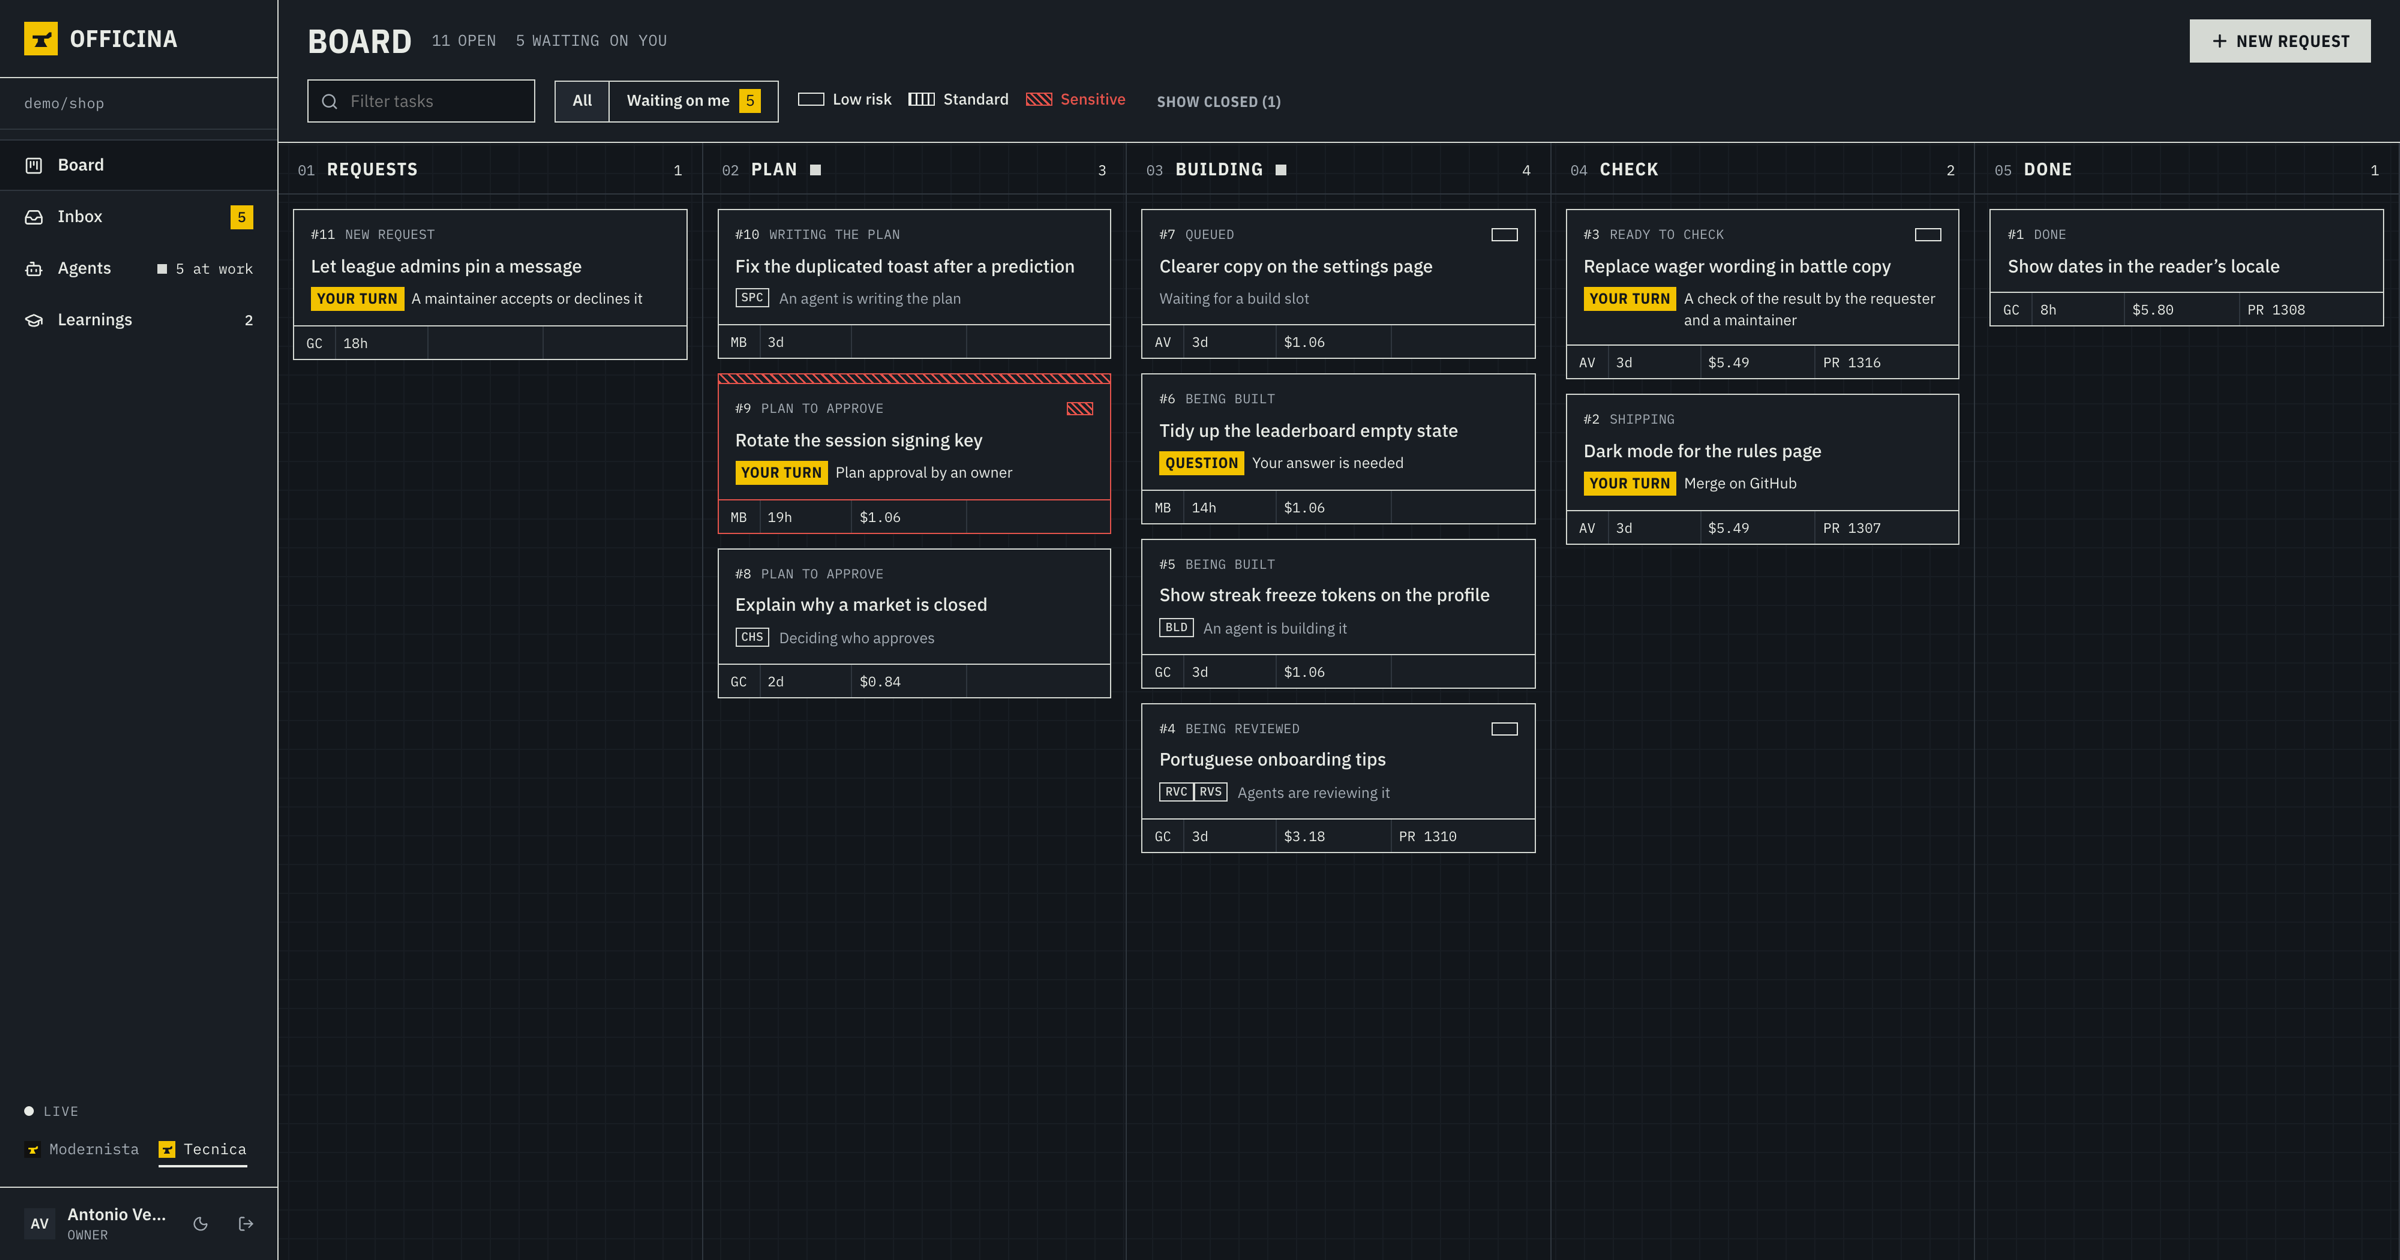
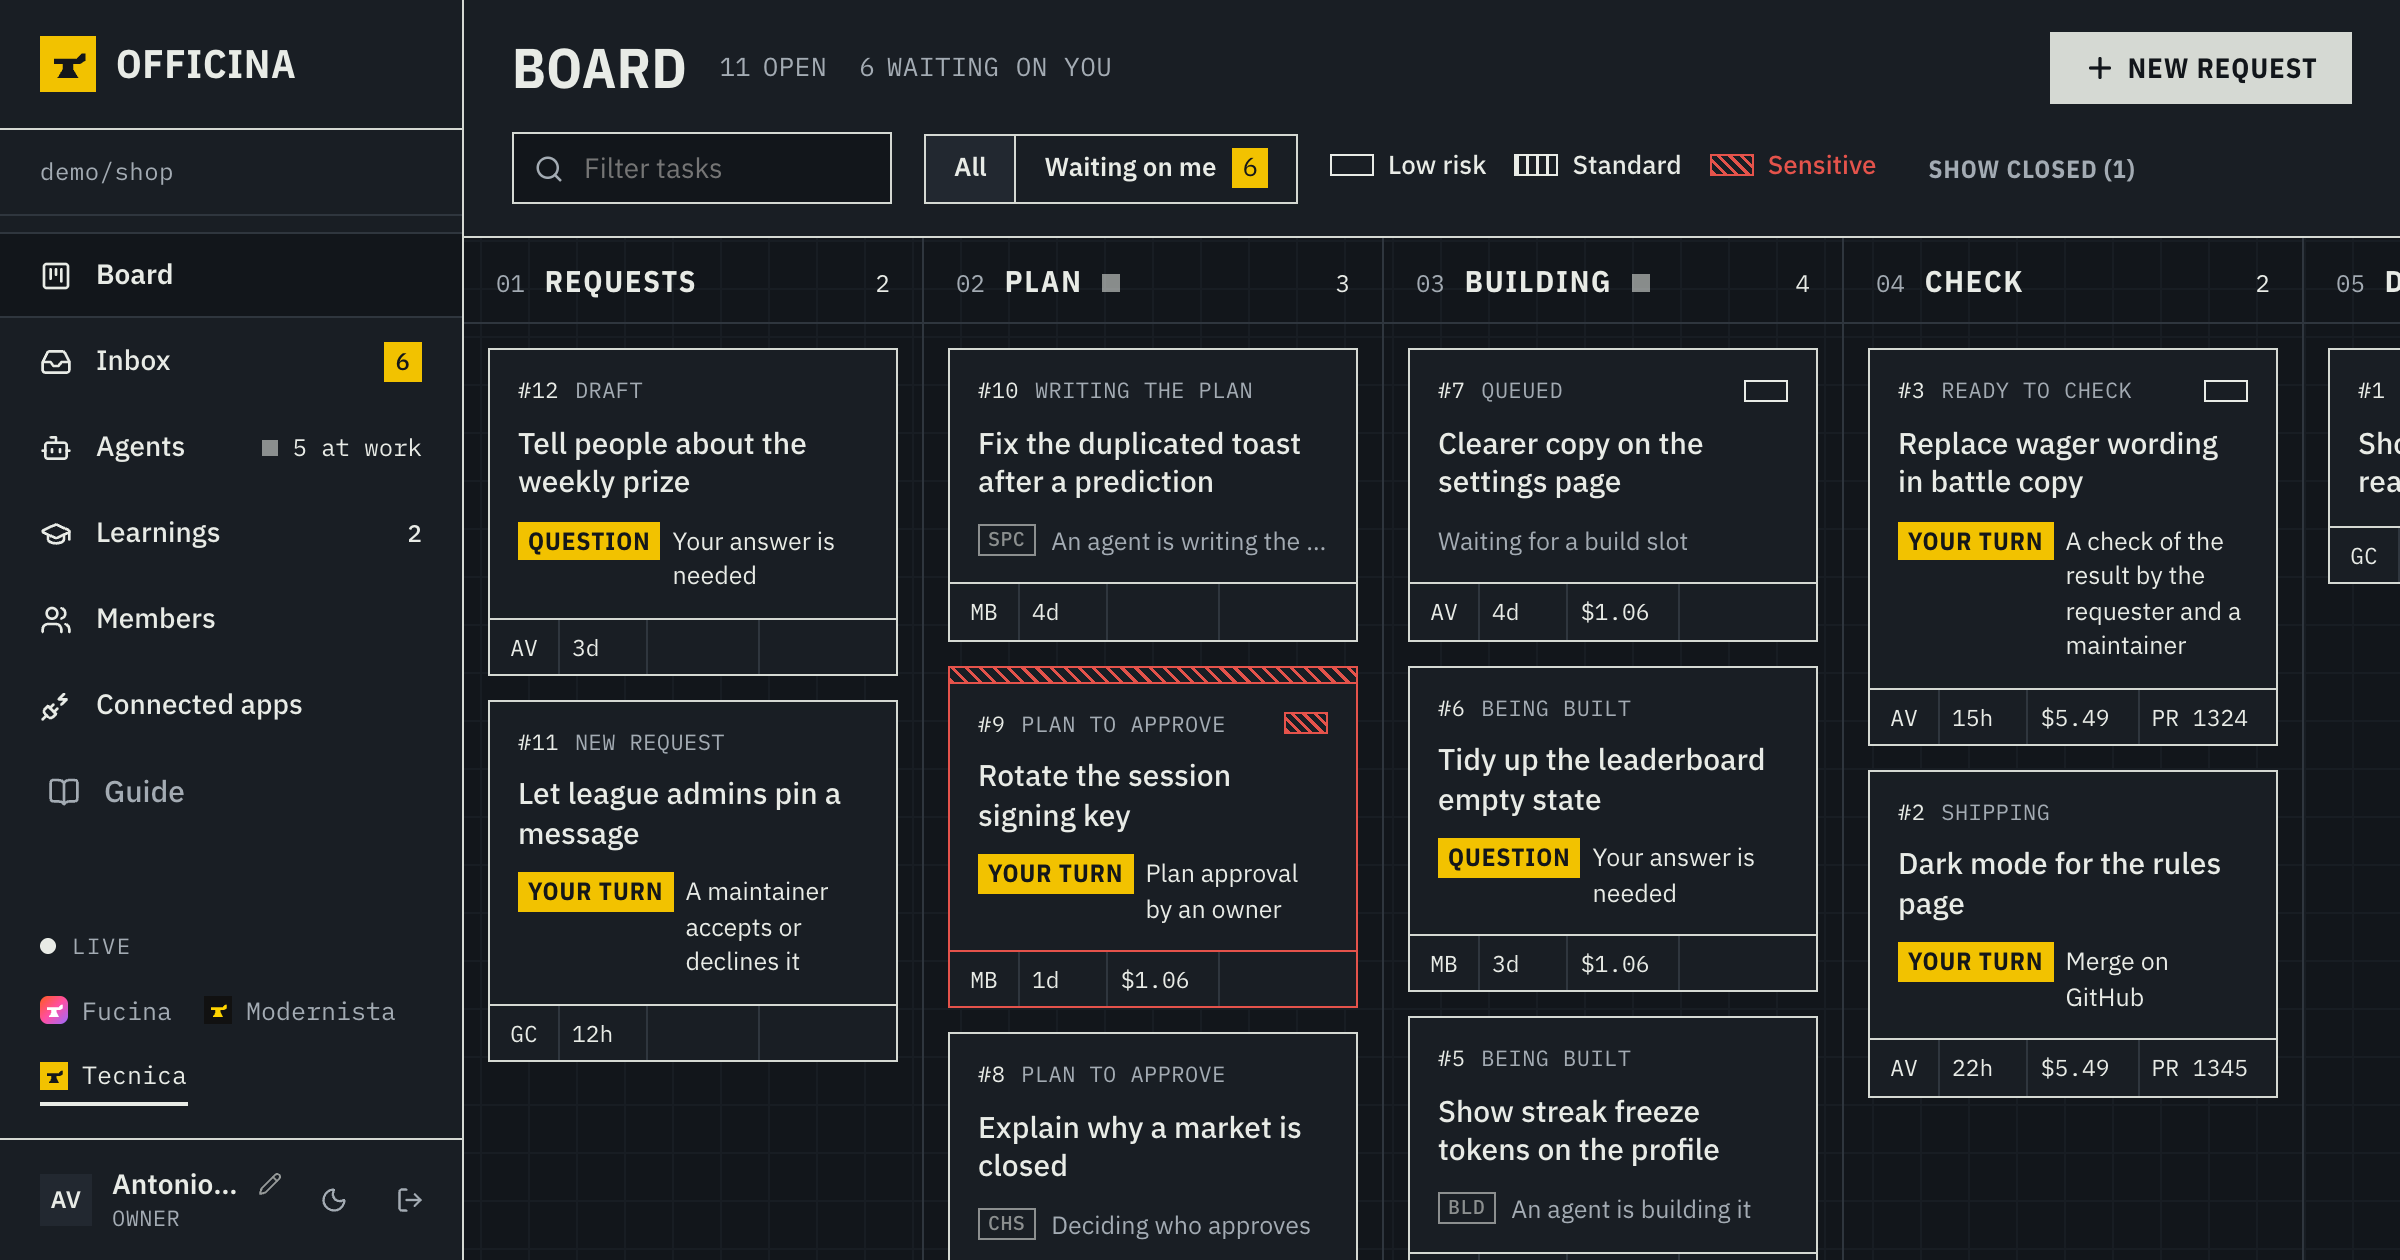
docs(repo): show all three board looks side by side in the readme (#310)
Adds Fucina's screenshots to the README, next to the other two looks.
#309 is merged and `main` is merged in here, so this diff holds only the
README and the images.

- The README's looks section now shows the same moment of the demo
workshop (`bun run dev`) in each look, Fucina, Modernista and Tecnica,
light above and dark below, in one 3x2 table.
- The section is labelled as demo snapshots. The hero image at the top
of the README is unchanged.
- Six images in `docs/assets`, 2400x1260 like the others: `fucina-*` and
`modernista-*` are new; `tecnica-*` are retaken from the same moment so
the three compare.

Checked: `prettier --check README.md` and `scripts/check-repo.ts`
(Markdown tables) pass. No code changes.

diff --git a/README.md b/README.md
@@ -98,10 +98,18 @@ A change touching sensitive paths needs an owner's approval of the exact spec ve
 
 Pick one in the sidebar footer, or set a project default with `board.look` in `.github/officina.yml`. **Fucina**, the default, is the lively one: every column has a colour and the agent who works there the same one, each agent is a small drawing that moves while it works (the builder hammers on the anvil), cards fly to their next column and an approved plan gets stamped. **Modernista** is a strict grid with big numerals and a shape for every agent. **Tecnica** treats every task as a work order on a technical drawing, with risk drawn as hatching. In all three, yellow means one thing only: it is your turn.
 
+The same moment of the demo workshop (`bun run dev`) in each look, light above and dark below:
+
 <table>
 <tr>
-<td width="50%"><img src="./docs/assets/tecnica-light.png" alt="The board in the Tecnica look, light: tasks as bordered work orders with title-block footers, numbered columns, hatched risk lanes and three-letter agent codes" /><br/><sub><b>Tecnica</b>, light</sub></td>
-<td width="50%"><img src="./docs/assets/tecnica-dark.png" alt="The board in the Tecnica look, dark" /><br/><sub><b>Tecnica</b>, dark</sub></td>
+<td width="33%"><img src="./docs/assets/fucina-light.png" alt="The board in the Fucina look, light: columns washed in their own colours, rounded cards with a stage chip in the column's colour, yellow blocks on the tasks waiting on you and a small drawing for each working agent" /><br/><sub><b>Fucina</b>, light</sub></td>
+<td width="33%"><img src="./docs/assets/modernista-light.png" alt="The board in the Modernista look, light: a strict black grid with big column counts and a shape for every agent" /><br/><sub><b>Modernista</b>, light</sub></td>
+<td width="33%"><img src="./docs/assets/tecnica-light.png" alt="The board in the Tecnica look, light: tasks as bordered work orders with title-block footers, numbered columns, hatched risk lanes and three-letter agent codes" /><br/><sub><b>Tecnica</b>, light</sub></td>
+</tr>
+<tr>
+<td width="33%"><img src="./docs/assets/fucina-dark.png" alt="The board in the Fucina look, dark" /><br/><sub><b>Fucina</b>, dark</sub></td>
+<td width="33%"><img src="./docs/assets/modernista-dark.png" alt="The board in the Modernista look, dark" /><br/><sub><b>Modernista</b>, dark</sub></td>
+<td width="33%"><img src="./docs/assets/tecnica-dark.png" alt="The board in the Tecnica look, dark" /><br/><sub><b>Tecnica</b>, dark</sub></td>
 </tr>
 </table>
 
